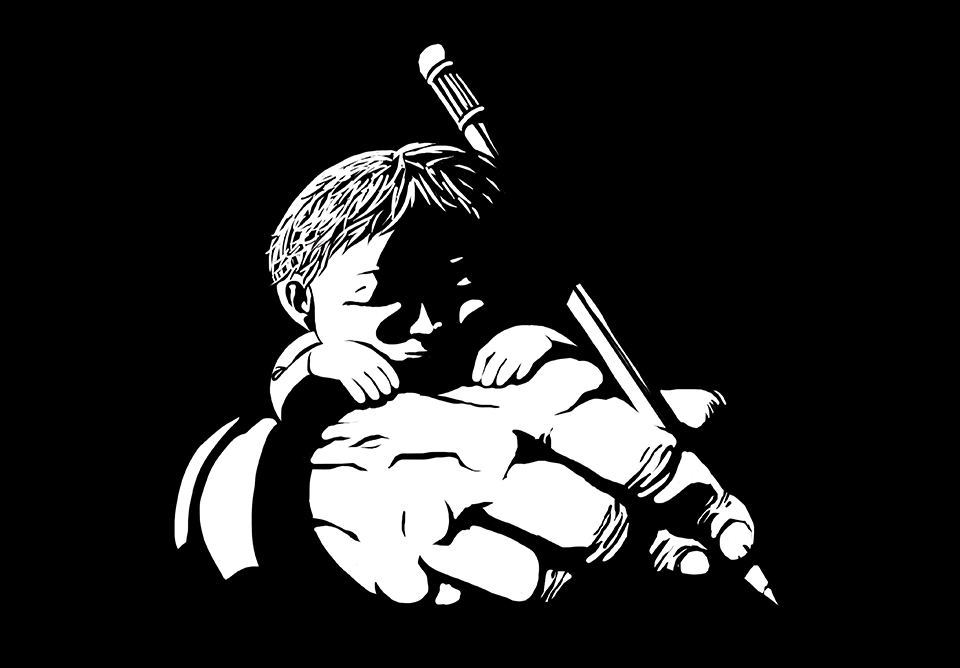
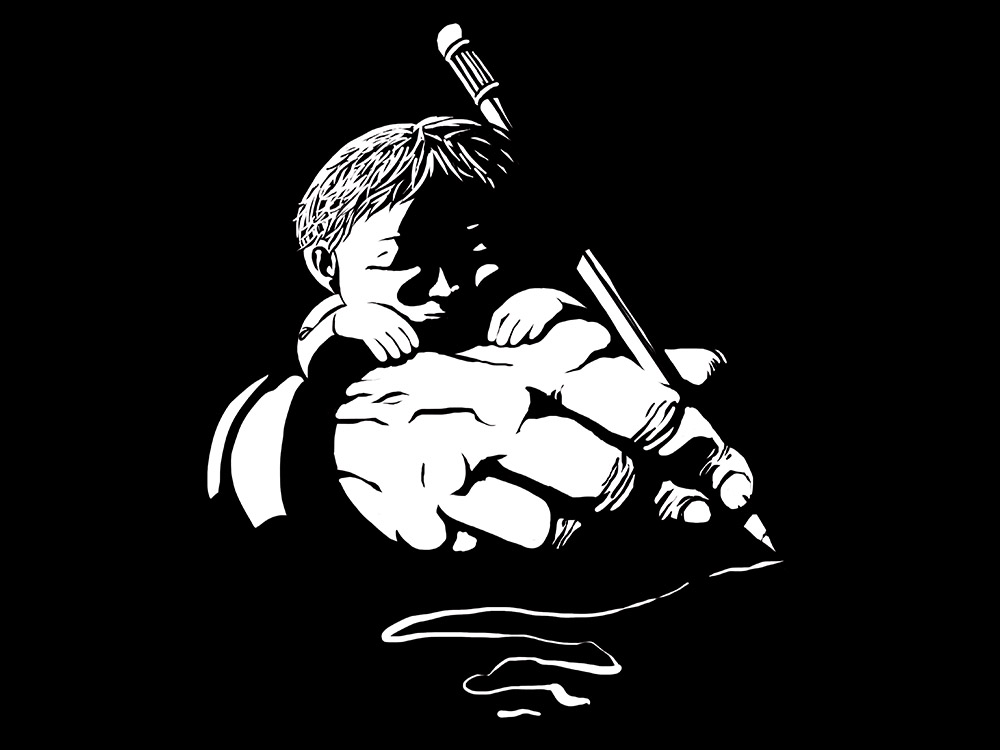
Added images on Perrault

Changed region(s): [[0.1562, 0.0299, 0.8125, 0.9581], [0.7812, 0.8383, 0.8125, 0.8982]]

diff --git a/perrault.html b/perrault.html
@@ -48,6 +48,16 @@
     <p>Conception d'un principe de collection éditoriale pour "Les Contes de ma mère l'Oye" de Charles Perrault.</p>
     <p>Réinterprétation du livre de contes illustré.</p>
     <p>Brutalité des histoires > illustrations avec Contraste maximum.</p>
+    <p>Réalisation de 14 illustrations.</p>
+    <img src="images/perrault/perrault_01.jpg" />
+    <img src="images/perrault/perrault_02.jpg" />
+    <img src="images/perrault/perrault_03.jpg" />
+    <img src="images/perrault/perrault_04.jpg" />
+    <img src="images/perrault/perrault_05.jpg" />
+    <img src="images/perrault/perrault_06.jpg" />
+    <img src="images/perrault/perrault_07.jpg" />
+    <img src="images/perrault/perrault_08.jpg" />
+
     <p>Récurrence de personnages cachés ou en position de voyeur > Illustrations dissimilées
       et uniquement visibles en se mettant dans une position similaire.</p>
   </div>

diff --git a/subutex.html b/subutex.html
@@ -58,6 +58,7 @@
     </div>
     <div class="img-container">
       <video autoplay="" loop="">
+        <!-- REFAIRE LES VIDEOS SANS LE SON -->
         <source src="images\subutex\video_couloir.webm" type="video/webm">
         <source src="images\subutex\video_couloir.mp4" type="video/mp4">
       </video>

diff --git a/css/style.css b/css/style.css
@@ -124,7 +124,10 @@ vertical-align: middle;
   max-height: 750px;
   margin: auto;
 }
-
+/* pour mobile/tablette
+.subutex-video {
+margin: 0 -40% 0 -60%;
+}*/
 
 .ppp h2, .ppp h4 {
   font-family: 'Kanit', sans-serif;
